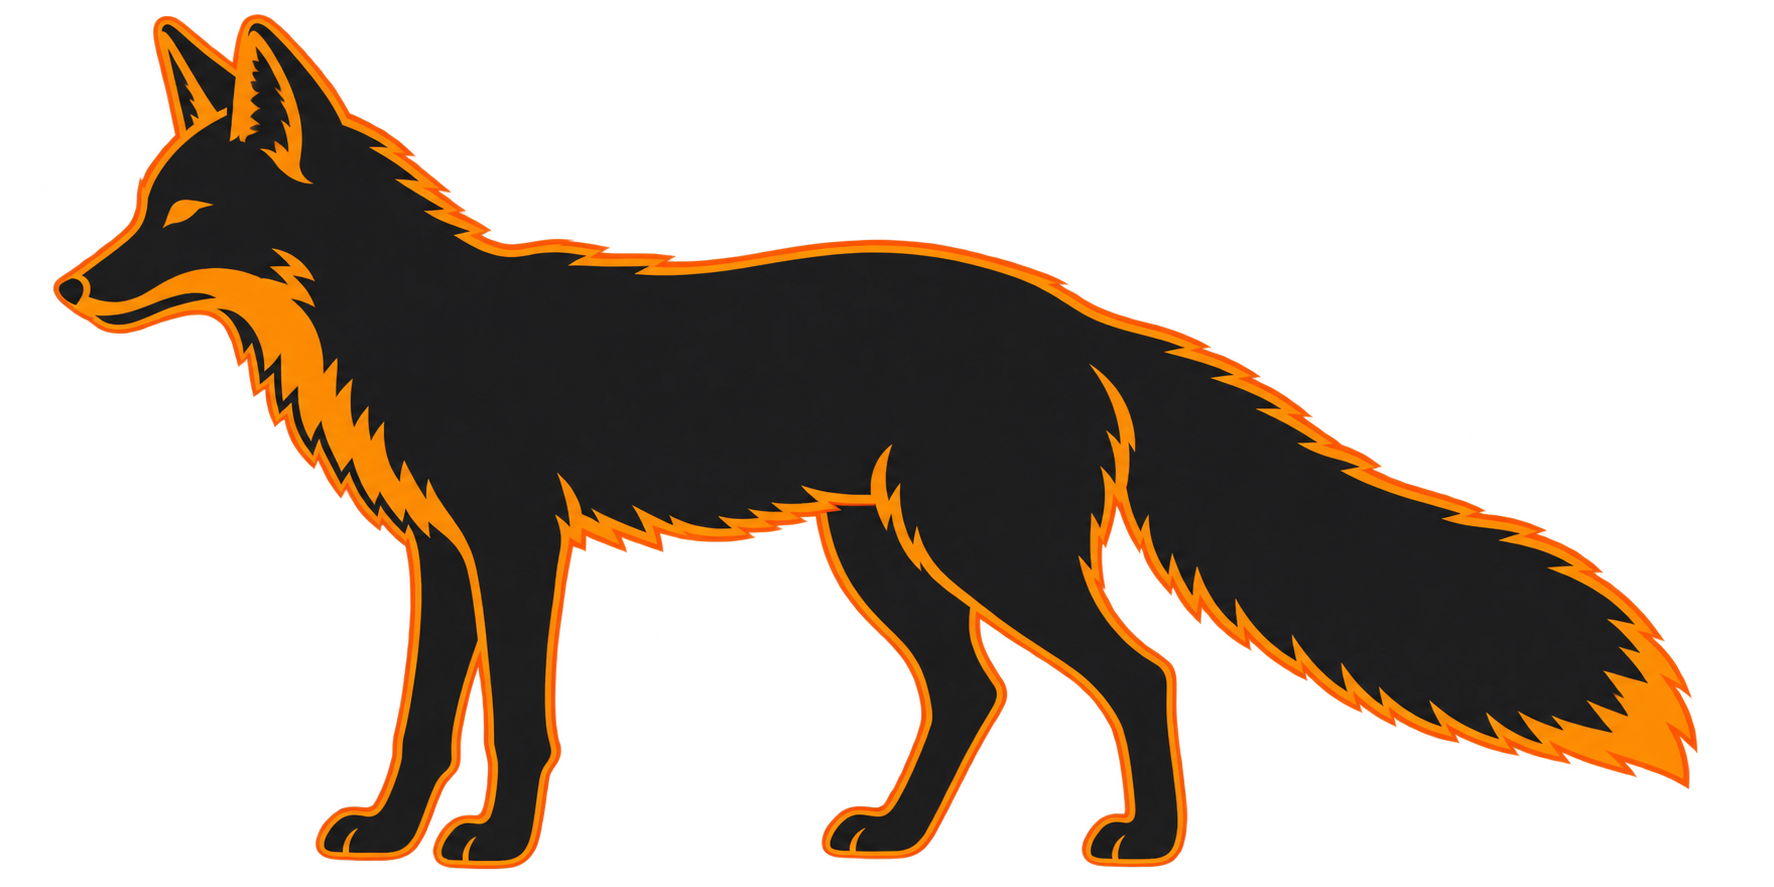
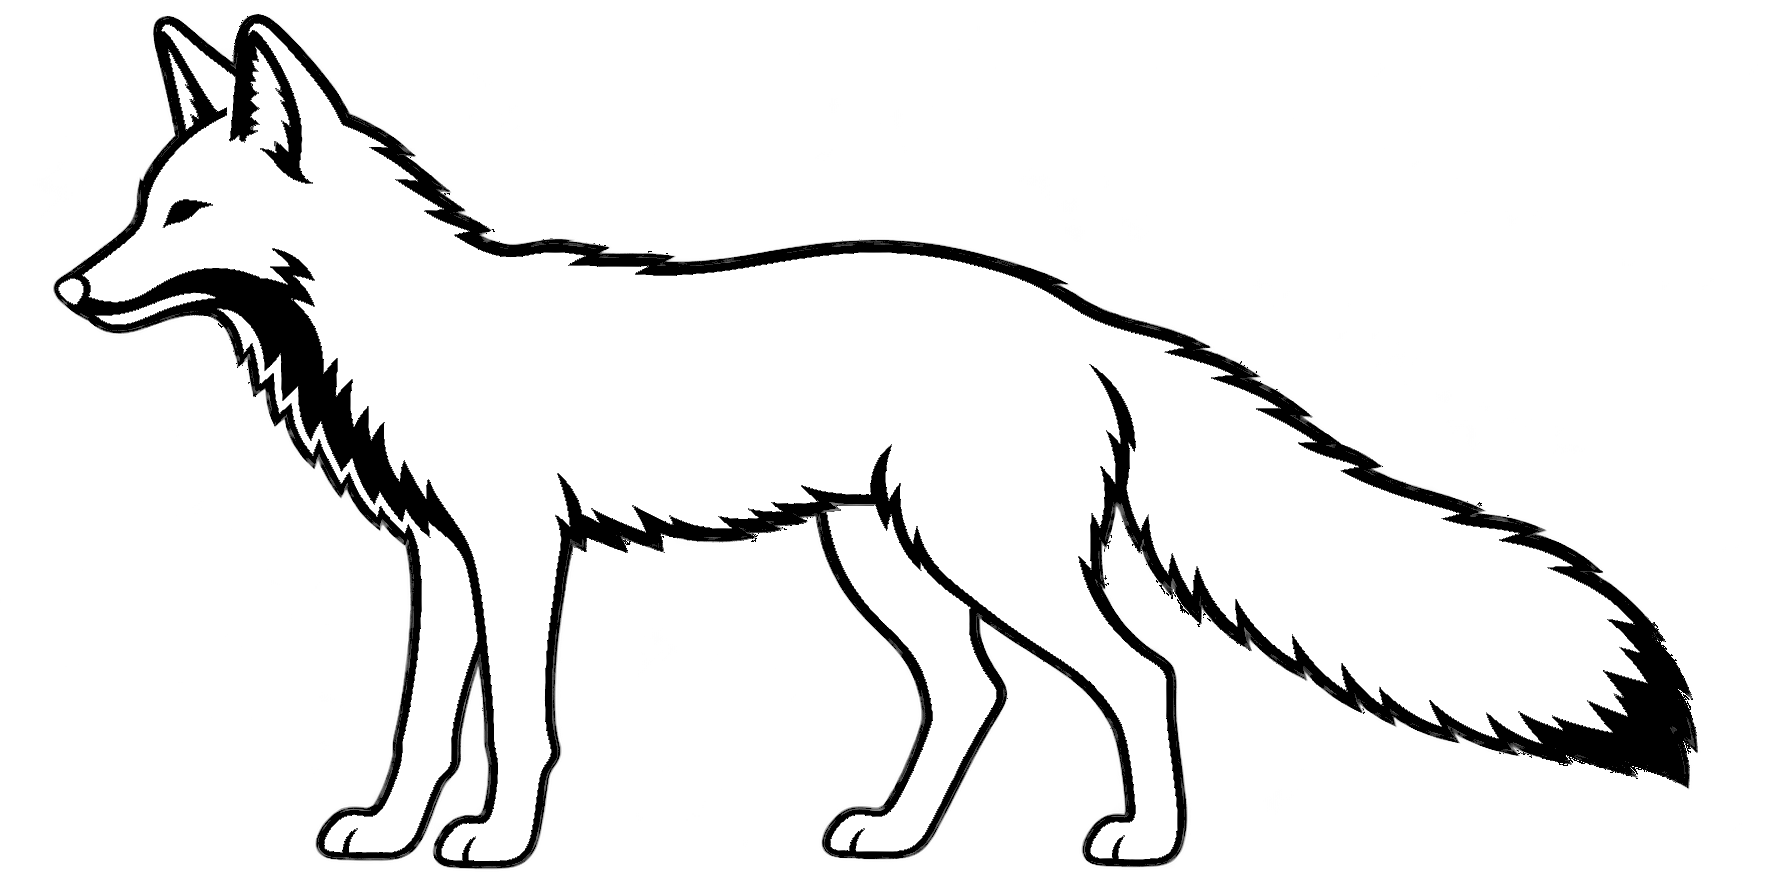
Improve animal pictogram rendering

diff --git a/docs/app.js b/docs/app.js
@@ -37,7 +37,12 @@ async function drawPixelScene(v,outer){
   canvas.width=Math.round(v.rw);canvas.height=Math.round(v.rh);ctx.clearRect(0,0,canvas.width,canvas.height);ctx.imageSmoothingEnabled=false;
   const [animalImg,bgImg]=await Promise.all([loadRaster(animal.img),loadRaster(bgSrc)]);if(version!==drawVersion)return;
   if(bgImg){const referenceHalfTan=7.68/(2*35),currentHalfTan=outer.w/(2*v.d),crop=clamp(referenceHalfTan/currentHalfTan,1,10),focusPx=bgImg.height*scene.focusY,verticalCover=Math.max(canvas.height*.5/focusPx,canvas.height*.5/(bgImg.height-focusPx)),scale=Math.max(Math.max(canvas.width/bgImg.width,canvas.height/bgImg.height)*crop,verticalCover),w=bgImg.width*scale,h=bgImg.height*scale,x=(canvas.width-w)/2,y=canvas.height*.5-focusPx*scale;ctx.drawImage(bgImg,x,y,w,h);ctx.fillStyle='rgba(0,0,0,.22)';ctx.fillRect(0,0,canvas.width,canvas.height)}
-  const w=Math.max(1,animal.w/outer.w*canvas.width),h=Math.max(1,animal.h/outer.h*canvas.height),mask=document.createElement('canvas');mask.width=Math.max(1,Math.ceil(w));mask.height=Math.max(1,Math.ceil(h));const maskCtx=mask.getContext('2d');maskCtx.imageSmoothingEnabled=false;maskCtx.drawImage(animalImg,0,0,mask.width,mask.height);maskCtx.globalCompositeOperation='source-in';maskCtx.fillStyle='#fff';maskCtx.fillRect(0,0,mask.width,mask.height);ctx.imageSmoothingEnabled=false;ctx.drawImage(mask,(canvas.width-w)/2,(canvas.height-h)/2,w,h);
+  const w=Math.max(1,animal.w/outer.w*canvas.width),h=Math.max(1,animal.h/outer.h*canvas.height),mask=document.createElement('canvas');
+  mask.width=Math.max(1,Math.round(w));mask.height=Math.max(1,Math.round(h));
+  const maskCtx=mask.getContext('2d');maskCtx.imageSmoothingEnabled=true;maskCtx.imageSmoothingQuality='high';maskCtx.drawImage(animalImg,0,0,mask.width,mask.height);
+  const pixels=maskCtx.getImageData(0,0,mask.width,mask.height),data=pixels.data;
+  for(let i=0;i<data.length;i+=4){const visible=data[i+3]>=96;data[i]=255;data[i+1]=255;data[i+2]=255;data[i+3]=visible?255:0}
+  maskCtx.putImageData(pixels,0,0);ctx.imageSmoothingEnabled=false;ctx.drawImage(mask,(canvas.width-mask.width)/2,(canvas.height-mask.height)/2);
 }
 function clamp(n,min,max){return Math.min(max,Math.max(min,n))}
 function values(){return {rw:clamp(+$('#resW').value||640,1,10000),rh:clamp(+$('#resH').value||512,1,10000),pitch:clamp(+$('#pitch').value||12,.1,100),d:+$('#distance').value,z:+$('#digitalZoom').value}}
